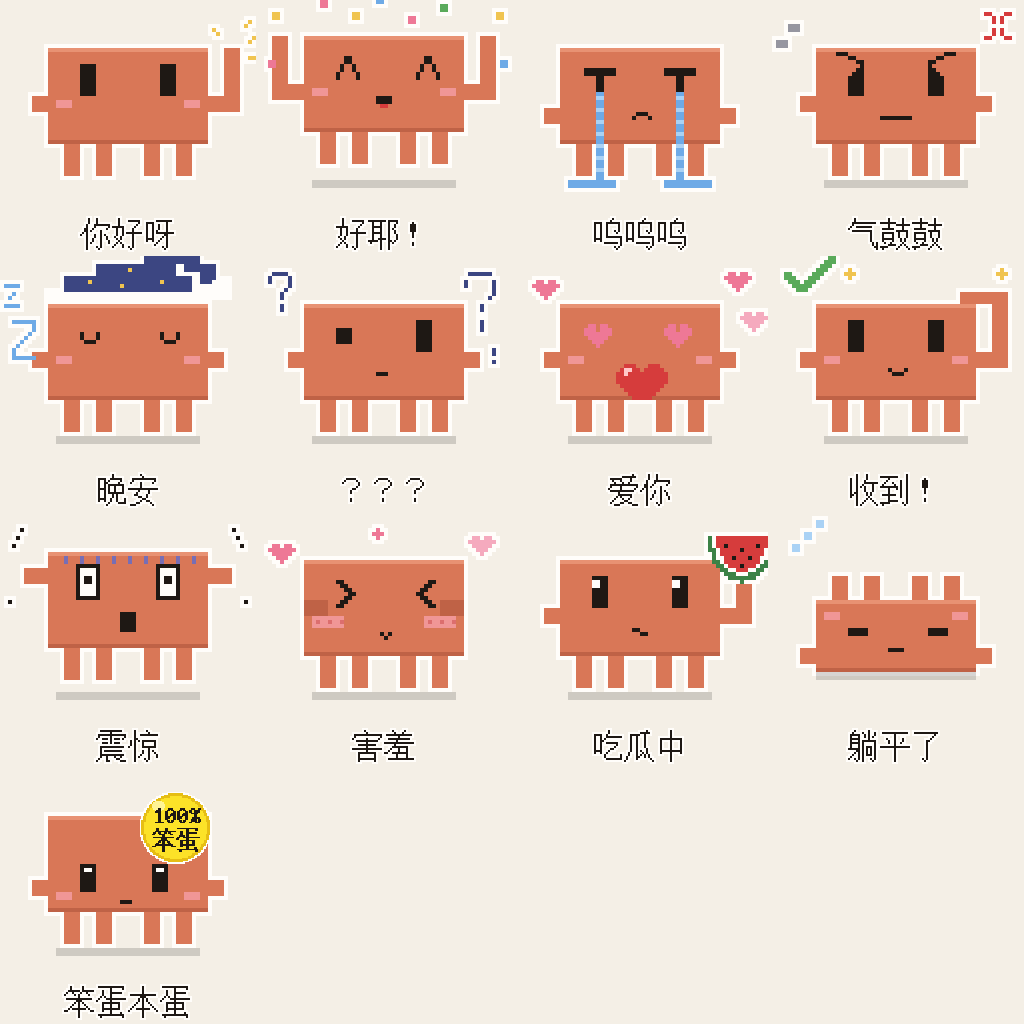
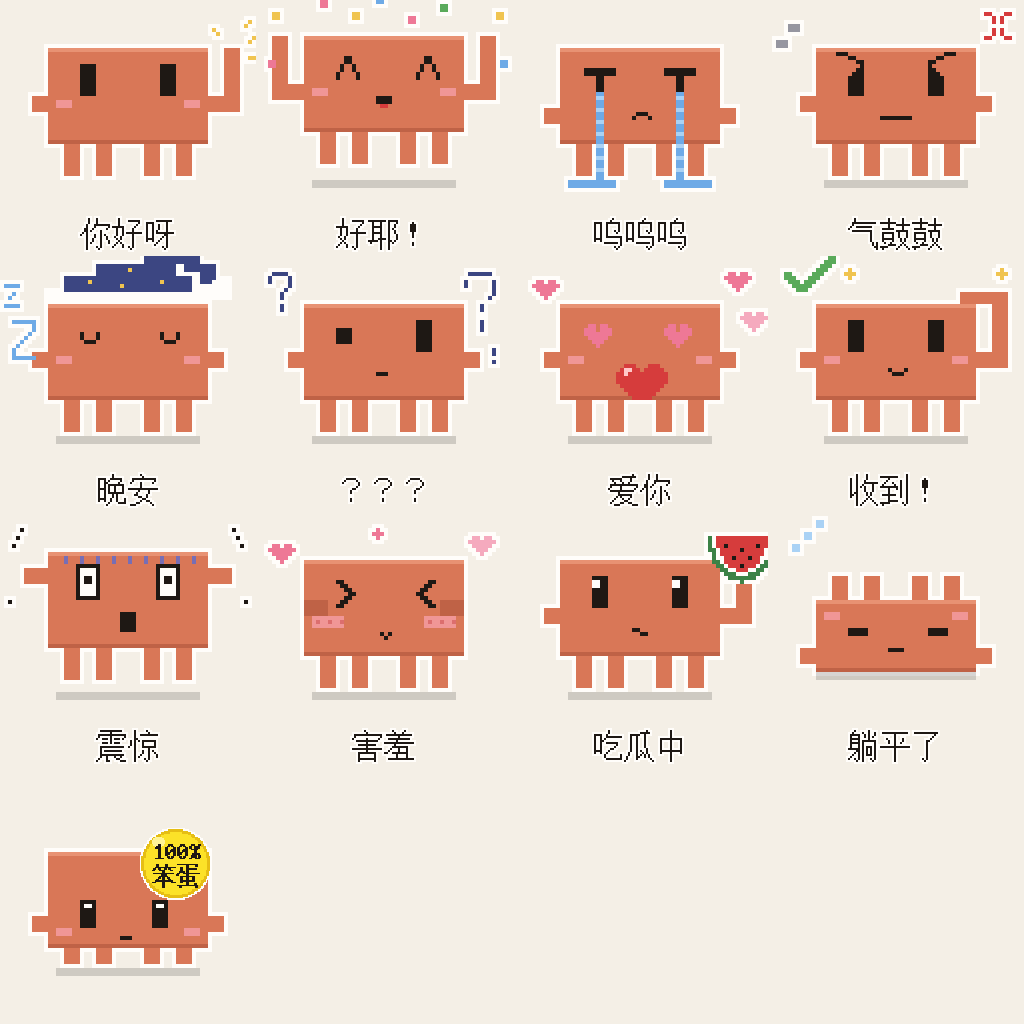
Dummy sticker: shorter legs, no caption, centered
Claude-Session: https://claude.ai/code/session_01BQ8wYBkLrzLKteJmzcAQEP

Changed region(s): [[0.0312, 0.75, 0.2188, 1.0]]

diff --git a/make_stickers.py b/make_stickers.py
@@ -44,12 +44,12 @@ class Art:
         for x, y in pts: self.P(x, y, c)
 
     # Clawd: body x 12..52, y 12..36, legs to 44; arms at y 24..28
-    def body(self, left_arm=True, right_arm=True, legs=True):
+    def body(self, left_arm=True, right_arm=True, legs=True, leg_len=8):
         self.R(12, 12, 52, 36, ORANGE)
         self.R(12, 12, 52, 13, ORANGE_L)
         self.R(12, 35, 52, 36, ORANGE_D)
         if legs:
-            for lx in (16, 24, 36, 44): self.R(lx, 36, lx + 4, 44, ORANGE)
+            for lx in (16, 24, 36, 44): self.R(lx, 36, lx + 4, 36 + leg_len, ORANGE)
         if left_arm: self.R(8, 24, 12, 28, ORANGE)
         if right_arm: self.R(52, 24, 56, 28, ORANGE)
 
@@ -75,9 +75,9 @@ class Art:
             for gx in range(m.width):
                 if m.getpixel((gx, gy)) > 128: self.P(x + gx, y + gy, c)
 
-    def shadow(self):
+    def shadow(self, y=45):
         d, self.dy = self.dy, 0
-        self.R(14, 45, 50, 47, SHADOW)
+        self.R(14, y, 50, y + 2, SHADOW)
         self.dy = d
 
 
@@ -247,15 +247,15 @@ def flat(a):
 
 def dummy(a):
     # puppy-meme pose: head down, eyes low, a "100% 笨蛋" label on the forehead
-    a.body(left_arm=False, right_arm=False)
+    a.body(left_arm=False, right_arm=False, leg_len=4)
     a.R(8, 28, 12, 32, ORANGE); a.R(52, 28, 56, 32, ORANGE)       # drooped arms
     for ex in (20, 38):                                            # eyes looking down
         a.R(ex, 24, ex + 4, 31, EYE); a.P(ex + 1, 25, WHITE); a.P(ex + 2, 25, WHITE)
     a.R(14, 31, 18, 33, BLUSH); a.R(46, 31, 50, 33, BLUSH)
     a.R(30, 33, 33, 34, EYE)
     a.label = (44, 15)                                             # drawn later, at a finer grid
-    a.shadow()
-    return "笨蛋本蛋"
+    a.shadow(41)
+    return ""
 
 
 def badge():
@@ -296,12 +296,19 @@ def render(fn):
     mask = art.getchannel("A").point(lambda v: 255 if v > 60 else 0).filter(ImageFilter.MaxFilter(3))
     border = Image.new("RGBA", art.size, WHITE); border.putalpha(mask)
     art = Image.alpha_composite(border, art)
+    oy = 0 if text else 9 * SCALE          # no caption: center the art vertically
     big = Image.new("RGBA", (A * SCALE, A * SCALE), (0, 0, 0, 0))
     big.alpha_composite(art.resize(big.size, Image.NEAREST), (0, 0))
     if getattr(a, "label", None):
         b = badge()
         lx, ly = a.label
         big.alpha_composite(b, (lx * SCALE - b.width // 2, ly * SCALE - b.height // 2))
+    if oy:
+        moved = Image.new("RGBA", big.size, (0, 0, 0, 0))
+        moved.alpha_composite(big, (0, oy))
+        big = moved
+    if not text:
+        return big
     cap = caption(text)
     cap = cap.resize((cap.width * TXT_SCALE, cap.height * TXT_SCALE), Image.NEAREST)
     big.alpha_composite(cap, ((big.width - cap.width) // 2, big.height - cap.height - 4))
